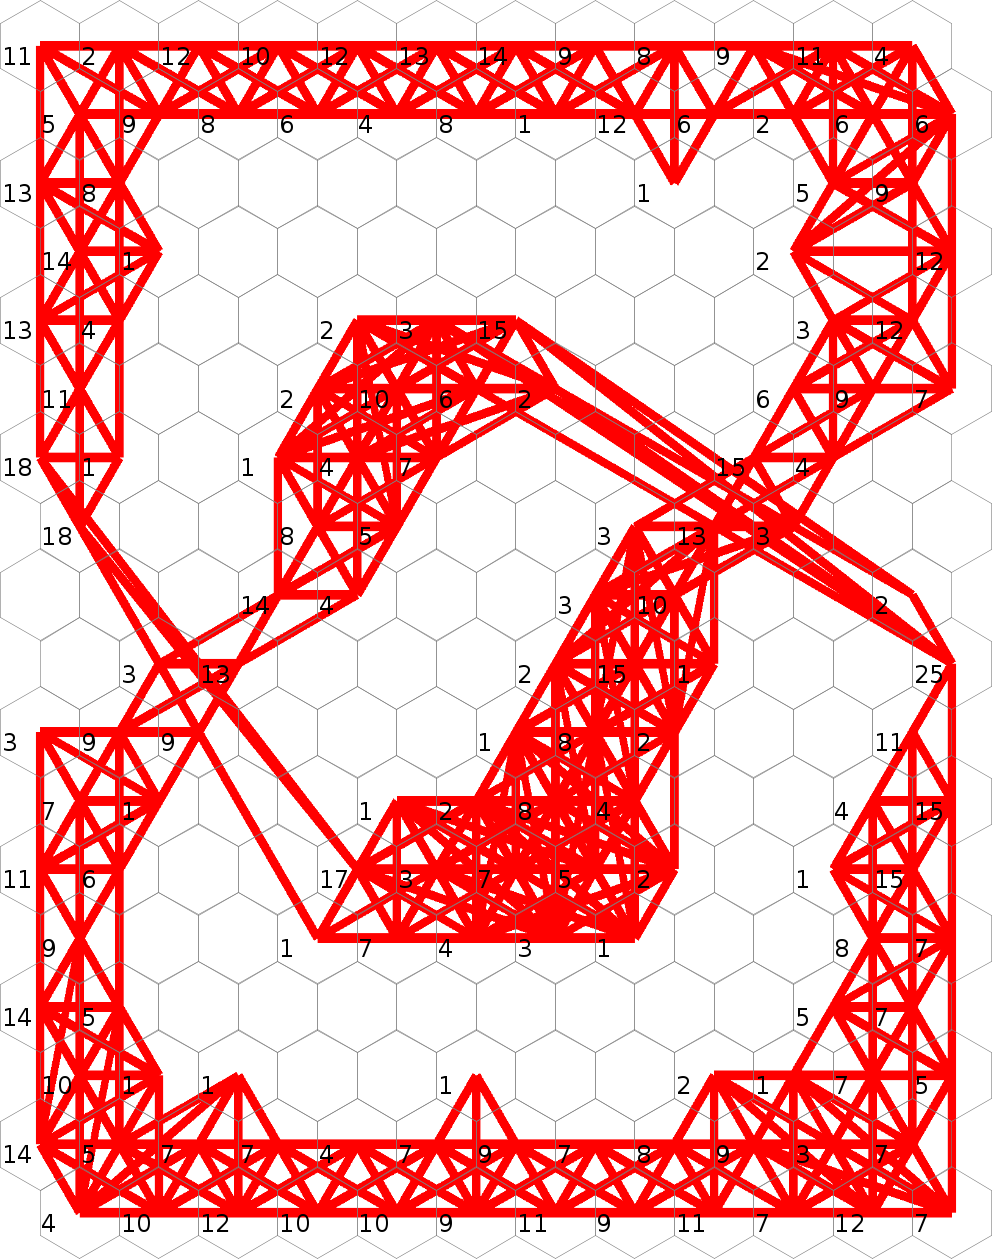
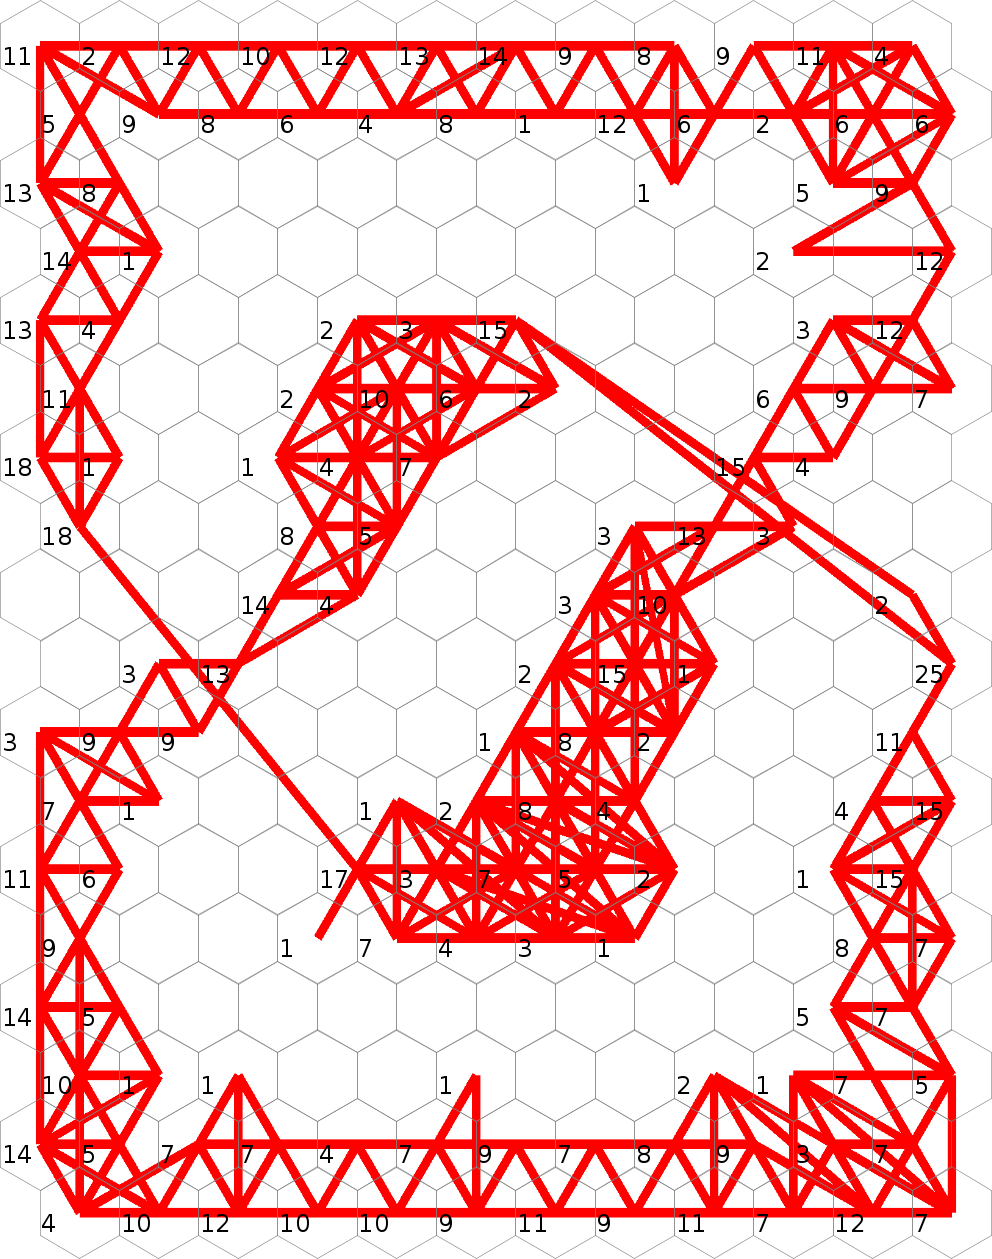
written comparison for chain link dataset

diff --git a/ex3-protocol/main.tex b/ex3-protocol/main.tex
@@ -53,7 +53,7 @@ Rene Koller\\
 
 For this assignment we used the SOM Toolbox~\cite{somtoolbox}. Our solution
 is based on the source code found in the section ``Download Latest'' and is
-identified by the version ``0.7.5-4.svn4332''.
+identified by the version ``0.7.5-4.svn4332''. In the deliverable of this assignment we attached a patch that can be applied to the root folder of the project. It is called ``hexagonal.diff''. The modified source code can also be obtained from the repository located at~\url{https://github.com/planrich/sos-ws-14} and is located in the subfolder ex3.
 
 \section{Terminology}
 
@@ -113,7 +113,7 @@ to be able to calculate shapes, center of the shapes and the grid neighbors.
 By examining the training process implemented in \lstinline!GrowingLayer! we have identified the following two strategies.
 First there is the single threaded training calculating the neighborhood using the function presented in the lecture:
 \[
-    h_{ci} = \alpha \times exp(-\frac{dist(winner,unit)^2}{2\sigma^2})
+    h_{ci} = \alpha \times exp \left(-\frac{dist(winner,unit)^2}{2\sigma^2}\right)
 \]
 In the function \lstinline!updateUnitsInArea! $h_{ci}$ is the used to updated the weight vectors for each unit.
 
@@ -132,7 +132,7 @@ the unit square, but from the corner (lower left). The distance for the second d
 
 To achieve the same distances in a hexagonal grid our approach is visualized in Figure~\ref{fig:hci-coord-hex}.
 The inner circle has a distance of $1$ to all of his 6 neighbors. To achieve this distance metric 
-we use the rectangular unit space which with an unit $u$ from any neighboring unit. The hexagon grid forces deformation
+we use the rectangular unit space which with an distance metric $u$ from any neighboring unit. The hexagon grid forces deformation
 of the shapes the following formulas are used to calculate the grid.
 
 \begin{itemize}
@@ -183,7 +183,7 @@ of the shapes the following formulas are used to calculate the grid.
 \end{table}
 
 Table~\ref{tab:neighbours} shows the amount of neighbors in a $100\times100$ grid. The unit to measure the distance from is located at index $(50,50)$. Notably using the squared euclidean distance it can happen that for a radius of 2 hexagonal grid has less neighbors than the rectangular one. This can also be observed in Figure~\ref{fig:hci-coord-hex} at position $(0,0)$. The squared distance from $(1,1)$ is 3 which is greater than 2. The black solid circle shows a radius of distance 2.
-For all others we have observed and for the subset we added to the table hexagonal has always more neighbors than the rectangular one.
+For all others, we have observed and for the subset we added to the table, hexagonal has always more neighbors than the rectangular one.
 
 Figure~\ref{fig:hci-coord-hex} and~\ref{fig:hci-coord-rect} show the activation of neighbors using three dashed circles. Each circle intersects exactly with 6 nodes centers in the hexagonal grid and 4 nodes in the rectangular grid.
 
@@ -280,7 +280,8 @@ We have picked two data sets that we will compare in the Sections~\ref{sec:iris}
 	\item Topographic Error (4/8 units)
 \end{itemize}
 
-In every Figure we show the rectangular SOM on the left and the hexagonal on the right hand side.
+In every figure we show the rectangular SOM on the left and the hexagonal on the right hand side.
+If not noted otherwise the default settings of the visualization is used.
 
 \newcommand{\cmprecthex}[5]
 {
@@ -307,15 +308,43 @@ In every Figure we show the rectangular SOM on the left and the hexagonal on the
 \subsection{Chain Link}
 \label{sec:chain-link}
 
+The chain link dataset describes three dimensional points of two rings that are chained together. Training settings are for both as follows:
+\begin{itemize}
+	\item Size $x = 12, y = 18$
+	\item Learnrate $\alpha = 0.7$
+	\item Neighbourhood radius $\sigma = 7$
+	\item Iteration count $i = 10000$
+\end{itemize}
+
+At a first glance all visualizations produce a very similar result. This is a good sign and indicates that we did preserve the semantics of the training algorithm.
+
+\cmprecthex{cl}{hit}{Hit Histogram}{Hexagonal}{Rectangular}
 \cmprecthex{cl}{activity}{Activity histogram. Default referent unit}{Hexagonal}{Rectangular}
+
+By observing Figure~\ref{fig:cl-hit} and~\ref{fig:cl-activity} especially at the latter the
+bottom units have different amounts of input data mapped to it. There seems to be one topology
+violation in the mid right of both grids. The hexagonal unit (mid right) with 25 units mapped to it has a blue
+color. The same is true for the rectangular unit but the topology violation is mapped to two units
+having 13 and 15 input mapped to it in Figure~\ref{fig:cl-activity-rect}.
+
+There are 72 interpolating unit on the rectangular grid whereas hexagonal has 76 counted in Figure~\ref{fig:cl-hit}. The major difference between the two Hit histograms are that in the
+hexagonal case there are more cases where units have a higher amount of input vectors mapped
+to them and the average seems to have a more balanced input vector count. These cases occur mostly
+on the mid right and left below and above the interpolating units.
+
 \cmprecthex{cl}{dmatrix}{D-Matrix}{Hexagonal}{Rectangular}
 \cmprecthex{cl}{pmatrix}{P-Matrix}{Hexagonal}{Rectangular}
 \cmprecthex{cl}{umatrix}{U-Matrix}{Hexagonal}{Rectangular}
-\cmprecthex{cl}{dist}{Distortion}{Hexagonal}{Rectangular}
-\cmprecthex{cl}{qe}{QE}{Hexagonal}{Rectangular}
-\cmprecthex{cl}{mqe}{MQE}{Hexagonal}{Rectangular}
-\cmprecthex{cl}{mqe}{Topo 4}{Hexagonal}{Rectangular}
+
+In both cases of P-Matrix~\ref{fig:cl-pmatrix} and D-Matrix~\ref{fig:cl-pmatrix} there is no notable difference we are aware of.
+
+For the U-Matrix visualization in Figure~\ref{fig:cl-umatrix-hex} we did not interpolate the colors
+of the edges of the hexagons that do not have a neighbor. This is done in the rectangular case. Interestingly the hexagonal SOM seems to have more broader mountain regions. The red/orange/yellow line that forms the digit ``2'' or the letter ``Z'' have a stronger orange color meaning that there are higher values in the neighborhood. This could give the impression that coherent regions are better separated in the hexagonal case.
+
 \cmprecthex{cl}{fuzzy-colouring}{Fuzzy coloring}{Hexagonal}{Rectangular}
+
+% TODO
+
 \cmprecthex{cl}{nh-knn-1}{Neighbourhood KNN 1}{Hexagonal}{Rectangular}
 \cmprecthex{cl}{nh-knn-2}{Neighbourhood KNN 2}{Hexagonal}{Rectangular}
 \cmprecthex{cl}{nh-knn-3}{Neighbourhood KNN 3}{Hexagonal}{Rectangular}
@@ -323,7 +352,29 @@ In every Figure we show the rectangular SOM on the left and the hexagonal on the
 \cmprecthex{cl}{nh-radius-0,2}{Neighbourhood Graph Radius 0.2}{Hexagonal}{Rectangular}
 \cmprecthex{cl}{nh-radius-0,3}{Neighbourhood Graph Radius 0.3}{Hexagonal}{Rectangular}
 
+Figure~\ref{fig:cl-nh-knn-1},\ref{fig:cl-nh-knn-2} and \ref{fig:cl-nh-knn-3} show the Neighborhood Graph using KNN with different $k$ values. All of them look similar to their hexagonal neighborhood graph. It can be observed that the hexagonal graph has a staggering pattern in the top and the bottom of the map.
+This is considered a good sign because the neighbors are aligned good on the hexagonal grid.
+Figure~\ref{fig:cl-nh-knn-3} and the neighborhood graph using a radius in Figure~\ref{fig:cl-nh-radius-0,1} look very similar.  It was mentioned earlier that there is a unit with 25 input samples mapped to it. Above it there is a unit with only two. These units are both connected to an unit in the upper center. This forms a triangle that is not present in the rectangular case.
 
+By examining the neighborhood graph with a higher radius in Figure~\ref{fig:cl-nh-radius-0,2} and~\ref{fig:cl-nh-radius-0,3} the hexagonal unit have more red lines that connect neighbors than the rectangular ones.
+
+\cmprecthex{cl}{qe}{Quantization Error (QE)}{Hexagonal}{Rectangular}
+\cmprecthex{cl}{mqe}{Mean Quantization Error (MQE)}{Hexagonal}{Rectangular}
+
+The QE shown in Figure~\ref{fig:cl-qe} does not differ very much comparing the two grid layouts.
+But the MQE shown in Figure~\ref{fig:cl-mqe} has much higher values in the hexagonal grid system. Earlier it was already observed that there is a more balanced distribution of unit to mapped input vectors in the hexagonal case. This might be one the reason for the result shown in~\ref{fig:cl-mqe}. The other explanation we could think of is that in the hexagonal case more neighbors are pulled in the training phase. This keeps unit regions until the fine tuning of the map closer together leading to a higher distance to some input samples.
+
+\cmprecthex{cl}{topo-4}{Topographic Error 4}{Hexagonal}{Rectangular}
+\cmprecthex{cl}{dist}{Distortion $\sqrt{2}$}{Hexagonal}{Rectangular}
+
+The topographic error in Figure~\ref{fig:cl-topo-4} seems worse in the hexagonal case. Figure~\ref{fig:cl-dist} shows the distortion that is constrainted only to two areas in the hexagonal case.
+
+\section{Conclusion}
+
+For this last assignment of the lecture Self-Orgainzing Systems we have implemented a hexagonal grid that can be used to train SOM maps. Our implementation is tightly integraded into the current SOM training mechanisms.
+In addition to that we have updated many different visualizations to work correctly with the hexagonal grid and compared them using 2 well known datasets (Iris and Chainlink).
+Whether or not a hexagonal SOM is superior to a rectangular cannot be answered. We have observed several positive effects such as slightly better cluster separation in the UMatrix. In contrast to that we \textbf{once} observed that the mean quantization error was much higher in the hexagonal case.
+In many cases this might just be a question of aesthetics whether one grid looks better than the other.
 
 \bibliography{ref}
 \bibliographystyle{plain}

diff --git a/ex3/src/core/at/tuwien/ifs/somtoolbox/visualization/TopographicErrorVisualizer.java b/ex3/src/core/at/tuwien/ifs/somtoolbox/visualization/TopographicErrorVisualizer.java
@@ -33,6 +33,7 @@ import at.tuwien.ifs.somtoolbox.layers.grid.GridGeometry;
 import at.tuwien.ifs.somtoolbox.layers.quality.QualityMeasureNotFoundException;
 import at.tuwien.ifs.somtoolbox.layers.quality.TopographicError;
 import at.tuwien.ifs.somtoolbox.models.GrowingSOM;
+import at.tuwien.ifs.somtoolbox.util.ImageUtils;
 
 /**
  * Visualization of some aspects of the Topographic Error Quality Measure, computation in {@link TopographicError}<br>
@@ -253,7 +254,7 @@ public class TopographicErrorVisualizer extends AbstractBackgroundImageVisualize
             }
         }
 
-        BufferedImage res = new BufferedImage(width, height, BufferedImage.TYPE_INT_RGB);
+        BufferedImage res = ImageUtils.createEmptyImage(width, height);
         Graphics2D g = (Graphics2D) res.getGraphics();
 
         GridGeometry helper = gsom.getLayer().getGridGeometry();
